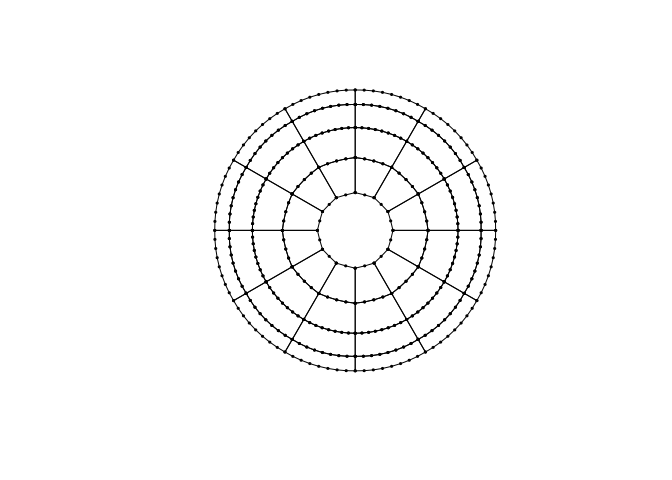
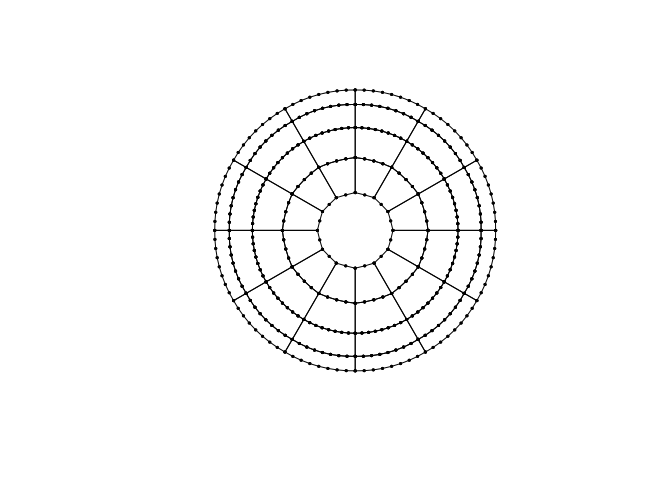
Project results with wk::wk_transform() and PROJ::proj_trans_create()
Vignette and README now turn refined pools back into wk geometry and
project them through a PROJ transform built once, the fast general path;
rproj_xy() stays for plain matrices. PROJ added to Suggests.

Claude-Session: https://claude.ai/code/session_01R9F8K5ghzDkVHd94kgQPB4

diff --git a/README.md b/README.md
@@ -106,18 +106,21 @@ c(input = nrow(wkpool::pool_vertices(pool)),
 #>  input output 
 #>    240    744
 
-## project the refined segments for display
-v <- wkpool::pool_vertices(out)
-s <- wkpool::pool_segments(out)
-xy <- rproj_xy(cbind(v$x, v$y), prj)
-p0 <- xy[match(s$.vx0, v$.vx), ]
-p1 <- xy[match(s$.vx1, v$.vx), ]
-plot(rbind(p0, p1), type = "n", asp = 1, axes = FALSE, xlab = "", ylab = "")
-segments(p0[, 1], p0[, 2], p1[, 1], p1[, 2])
-points(xy, pch = 19, cex = 0.3)
+## back to geometry, then project with wk and PROJ (the fast general path)
+geom <- wkpool::segments_to_wkb(out)
+drawn <- wk::wk_transform(geom, PROJ::proj_trans_create(wk::wk_crs(geom), prj))
+xy <- wk::wk_coords(drawn)
+plot(range(xy$x), range(xy$y), type = "n", asp = 1, axes = FALSE, xlab = "", ylab = "")
+plot(drawn, add = TRUE)
+points(xy$x, xy$y, pch = 19, cex = 0.3)
 ```
 
 <img src="man/figures/README-adaptive-wkpool-1.png" width="100%" />
+
+Output stays in longitude and latitude, so any projection tool can draw
+it; `wk::wk_transform()` with a `PROJ::proj_trans_create()` transform is
+the quickest general route for wk geometry, and `rproj_xy()` does the
+same for a plain coordinate matrix.
 
 ## bigcurve and s2
 
